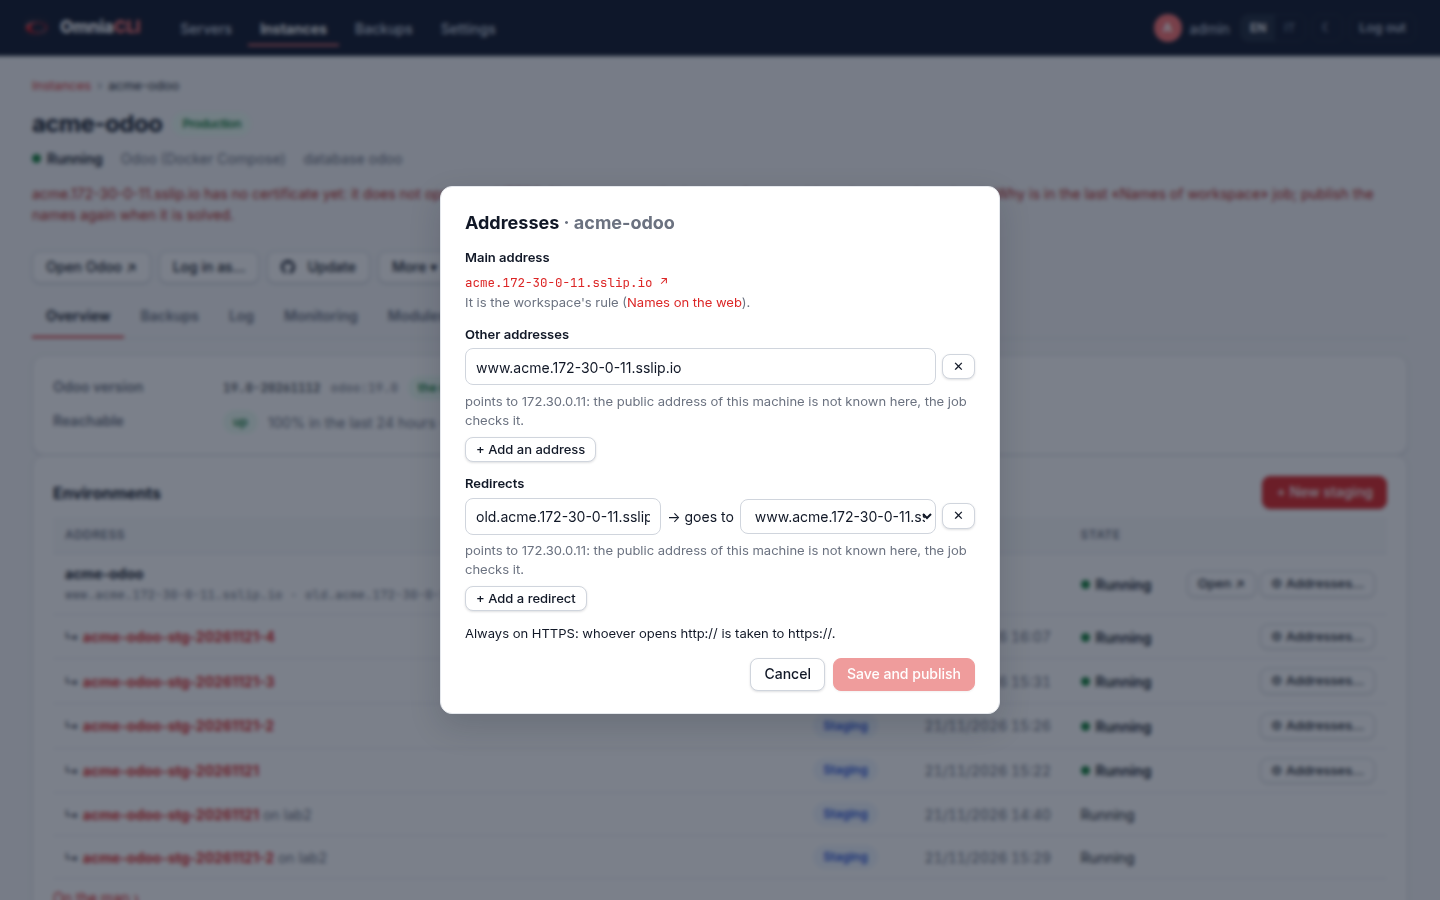
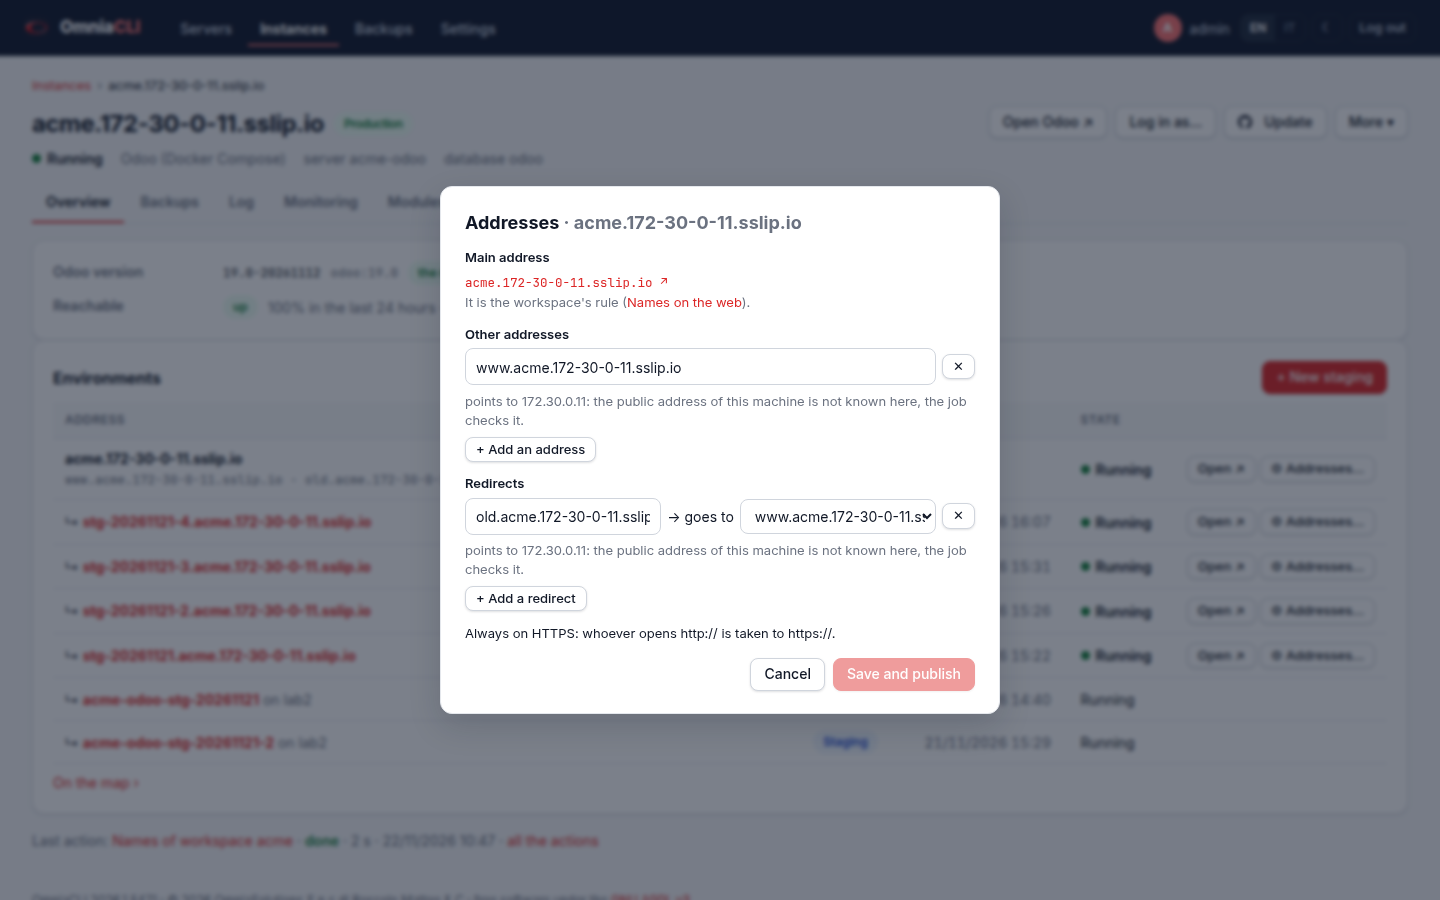
The README's images as the screens are at this release, and what was seen while taking them: the images of the pages of an instance, the machines, the lists, the map and Disks taken again with the names of the test machine under a certificate, so that no head says a problem of that machine (the main

diff --git a/omniacli/templates/base.html b/omniacli/templates/base.html
@@ -227,6 +227,9 @@ button.primary:hover, .button.primary:hover { background: color-mix(in srgb, var
   border-color: color-mix(in srgb, var(--accent) 88%, #000); color: #fff; }
 button.danger { border-color: color-mix(in srgb, var(--err) 45%, var(--border)); color: var(--err); }
 button.danger:hover:not(:disabled) { background: var(--err-soft); border-color: var(--err); color: var(--err); }
+/* the confirm of what deletes or stops is primary and danger at once: white on red, not red on red */
+button.primary.danger, button.primary.danger:hover:not(:disabled) { background: #B42318; border-color: #B42318; color: #fff; }
+button.primary.danger:hover:not(:disabled) { background: #912018; border-color: #912018; }
 button.ghost { background: none; border-color: transparent; box-shadow: none; }
 button:disabled, .button[aria-disabled="true"] { opacity: .45; cursor: not-allowed; }
 .status { font-weight: 600; }

diff --git a/omniacli/templates/_map.html b/omniacli/templates/_map.html
@@ -424,8 +424,8 @@ window.OmniaMap = (function () {
     return text.length > max ? text.slice(0, max - 1) + "…" : text;
   };
   const txt = (x, y, text, cls, anchor) => S("text", {x, y, class: cls || null, "text-anchor": anchor || null}, text);
-  const sizeText = (b) => b >= 1073741824 ? (b / 1073741824).toFixed(1).replace(".", ",") + " GB"
-    : b >= 1048576 ? Math.round(b / 1048576) + " MB" : Math.max(0, Math.round(b / 1024)) + " kB";
+  // the one way of writing a size (base.html): the decimal mark of the page's language
+  const sizeText = (b) => window.sizeText(Math.max(0, Number(b) || 0));
   const dayText = (iso) => whenText(iso).slice(0, 5);
   const timeText = (iso) => whenText(iso).slice(11, 16);
   const params = () => new URLSearchParams(location.search);

diff --git a/README.md b/README.md
@@ -81,30 +81,23 @@ prepares a new one (see [Machines](#machines)).
 production, the free space and the load; the tabs Monitoring and Database
 (below).
 
-On the Dashboard of the machine OmniaCLI runs on, on top, one row for the
-machine (CPU and
-network of the last 15 minutes, its disks: a disk opens its history); a
-click on the row opens its whole load below it (the last hour's charts, its
-disks with their estimate), another closes it, as each viewer left it, then
-this instance's servers with their workspace, the state of their Odoo and
-their CPU, then (for admins) **Workspaces**, the list of the Workspaces page,
-then **Linked**, one row for each linked instance's machine (the same row;
-the name opens it), and the last jobs, updated as they run. CPU, network and
-disks are shown by one widget each (`templates/_load.html`), the same in
-every row that shows them: this machine, Linked, the servers' CPU, the
-Workspaces list.
+**This machine** (the logo, or its card in Servers) opens on three numbers
+— its Odoo instances, their stagings, the free space — and the load of now
+as three bars (CPU, RAM, disk); under them its instances, each staging right
+under its production, with a search box and **+ New instance**. The tabs
+**Monitoring** and **Database** are described below; **Disks**, top right,
+opens the history of every disk.
 Every disk is recorded once a day (kept three years, in
-`<data>/disk_history.json`): its panel row says when it will be full, from the
-trend of the last 90 days (at least 7 days of data), and **Disks** (`/disks`)
-charts each disk's used space with that forecast. The workspaces' disks are
-recorded the same way (the space their image takes, full at their
-`disk_gb`), and **Disks** charts them too.
+`<data>/disk_history.json`): **Disks** (`/disks`) charts each disk's used
+space and says when it will be full, from the trend of the last 90 days (at
+least 7 days of data). The workspaces' disks are recorded the same way (the
+space their image takes, full at their `disk_gb`), and **Disks** charts them
+too.
 
 Every page that shows a disk shows it with one widget
-(`templates/_disk.html`): the Dashboard (this machine's and the linked
-instances' disks, the folded row, a workspace's panel), Workspaces (each
-workspace's disk, the real disk under its storage with what the workspaces
-were promised there), a workspace's page, a puller's page, and Disks. Each
+(`templates/_disk.html`): Workspaces (each workspace's disk, the real
+disk under its storage with what the workspaces were promised there), a
+workspace's page, a puller's page, and Disks. Each
 reads the same: used, free and size, a bar that turns orange under 15% free
 and red under 5%, and the estimate (the day it is full, the growth a day, or
 why there is none yet), orange within 90 days of full and red within 30.
@@ -149,9 +142,9 @@ the workspaces' disks come after the machine's.
 
 ![The Disks page](docs/images/disks.png)
 
-**An instance**: its name and state in the head, a problem with its names
-said under the title (here the test machine's names have no certificate),
-with Open Odoo, Log in as…, Update and More; the tabs Overview (its Odoo
+**An instance**: its address and state in the head (a problem with its
+names is said under the title: a name out of DNS, no certificate yet), with
+Open Odoo, Log in as…, Update and More; the tabs Overview (its Odoo
 version, whether it answers, and its environments: production, test and
 stagings, also those on another machine), Backups, Log, Monitoring, Modules,
 Settings.
